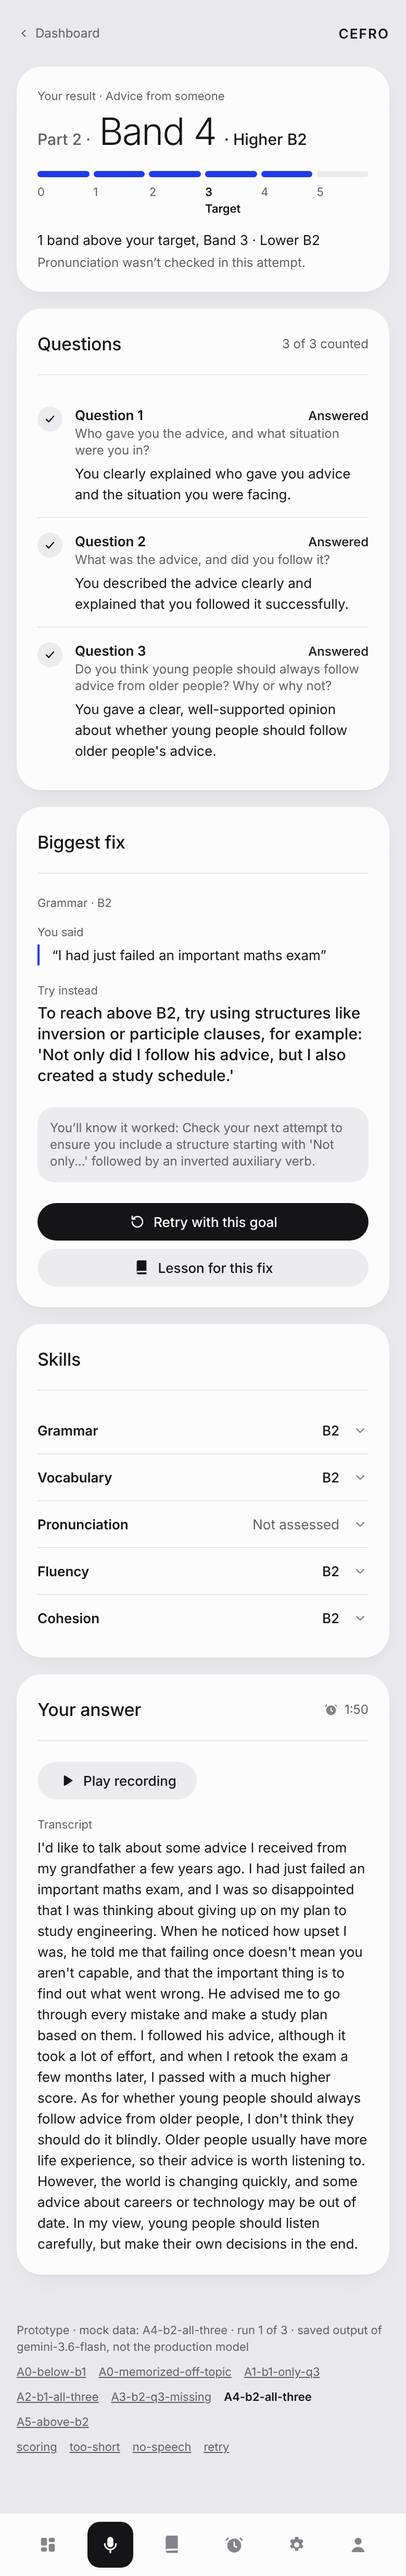
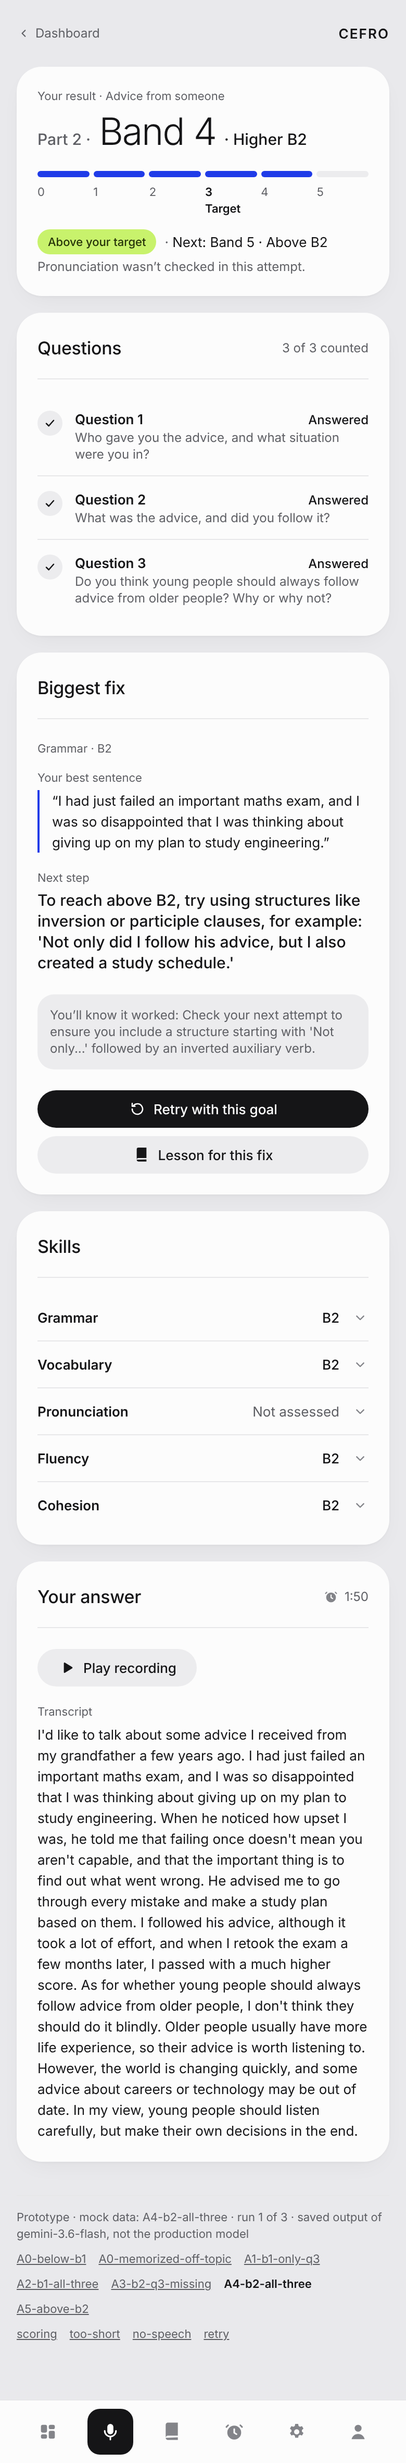
fix(result): quote labels from the evaluator's data, quieter answered questions, above-target line
- Skill quotes are labelled "What you did well" / "To improve" only when the
  evaluator's strengths / errors list names those words for that skill; the
  first evidence quote keeps its place when listed, else the listed strength,
  else the listed error; otherwise the quote shows without a label
- Biggest fix: an error keeps "You said / Try instead"; otherwise the skill's
  listed strength is "Your best sentence" with "Next step" (with no listed
  strength, their words stay "You said", never called "best")
- Answered questions show only "Answered" with the tick; the note shows for
  partly answered and not counted
- Above the target: lime "Above your target" · "Next: Band 5 · Above B2"
- Screenshots re-taken

Claude-Session: https://claude.ai/code/session_012h7y6fFKFMNGT6TLEtPh6o

Changed region(s): [[0.0308, 0.0311, 0.9231, 0.9642], [0.8, 0.5288, 0.8923, 0.6532]]

diff --git a/src/features/result/view-model.ts b/src/features/result/view-model.ts
@@ -97,7 +97,11 @@ export interface BiggestFixView {
   label: string;
   /** What the quote is: the student's words, or (when nothing was said) the question they missed. */
   quoteKind: "student" | "question";
+  /** "You said" (an error, or their words for a question), "Your best sentence" (a listed strength), "You didn't answer". */
+  quoteLabel: string;
   quote: string;
+  /** "Try instead" after an error or a missed question; "Next step" when the quote is not an error. */
+  adviceLabel: "Try instead" | "Next step";
   tryInstead: string;
   /** The retry goal (the evaluator's first retry focus). Omitted when it would repeat `tryInstead`. */
   goal: string | null;
@@ -112,6 +116,8 @@ export interface SkillRow {
   level: FeatureLevel | null;
   levelLabel: string;
   quote: string | null;
+  /** From the evaluator's lists: a strength ("What you did well") or an error ("To improve"); null when they don't say. */
+  quoteLabel: SkillQuoteLabel | null;
   note: string;
   /** Retries: the level last time, when it differs. */
   previousLevelLabel: string | null;
@@ -133,7 +139,8 @@ export interface ResultView {
   bandLabel: string;
   /** "Part 2 · Band 2 · Higher B1" */
   headline: string;
-  target: { band: number; label: string; distance: number; text: string };
+  /** `text` for below / at the target; above it, `above` instead (the lime label, and the next band if there is one). */
+  target: { band: number; label: string; distance: number; text: string; above: { next: string | null } | null };
   /** True when pronunciation was not assessed: the band may change once it is. */
   provisional: boolean;
   zeroReason: MultilevelResult["scoring"]["zero_reason"];
@@ -177,7 +184,13 @@ export function buildResultView(
     bandMax: s.band_max,
     bandLabel: s.label,
     headline: `Part ${result.part} · Band ${s.band} · ${s.label}`,
-    target: { band: s.target_band, label: targetLabel, distance, text: distanceText(distance, s.target_band, targetLabel) },
+    target: {
+      band: s.target_band,
+      label: targetLabel,
+      distance,
+      text: distanceText(distance, s.target_band, targetLabel),
+      above: distance < 0 ? { next: nextBand(s.band, s.band_max, ctx.bandLabels) } : null,
+    },
     provisional: s.provisional,
     zeroReason: s.zero_reason,
     questions: result.assessment.questions.map((q) => ({
@@ -201,7 +214,40 @@ function distanceText(distance: number, targetBand: number, targetLabel: string)
   const bands = (n: number) => `${n} ${n === 1 ? "band" : "bands"}`;
   if (distance > 0) return `${bands(distance)} to your target, ${target}`;
   if (distance === 0) return `Target reached: ${target}`;
-  return `${bands(-distance)} above your target, ${target}`;
+  return "Above your target";
+}
+
+function nextBand(band: number, bandMax: number, labels: readonly BandLabel[]): string | null {
+  if (band >= bandMax) return null;
+  const label = labels.find((b) => b.band === band + 1)?.label;
+  return `Band ${band + 1}${label ? ` · ${label}` : ""}`;
+}
+
+export type SkillQuoteLabel = "What you did well" | "To improve";
+
+const norm = (text: string) => text.toLowerCase().replace(/\s+/g, " ").trim();
+/** Both are exact substrings of the transcript, so one containing the other means they quote the same words. */
+const sameWords = (a: string, b: string) => norm(a).includes(norm(b)) || norm(b).includes(norm(a));
+
+/**
+ * A skill's quote and what it shows, only from the evaluator's own lists: `strengths` (B2-or-better language) and
+ * `errors` (grammar / vocabulary). The first evidence quote keeps its place when a list names it; otherwise the
+ * skill's listed strength, else its listed error. When no list says, the first quote is shown without a label.
+ */
+function skillQuote(result: MultilevelResult, feature: Feature): { quote: string | null; label: SkillQuoteLabel | null } {
+  const a = result.assessment;
+  const strengths = a.strengths.filter((s) => s.feature === feature);
+  const errors = a.errors.filter((e) => e.type === feature);
+  const first = a.features[feature].evidence[0];
+  if (first) {
+    const good = strengths.some((s) => sameWords(s.quote, first));
+    const bad = errors.some((e) => sameWords(e.quote, first));
+    if (good !== bad) return { quote: first, label: good ? "What you did well" : "To improve" };
+    if (good && bad) return { quote: first, label: null };
+  }
+  if (strengths[0]) return { quote: strengths[0].quote, label: "What you did well" };
+  if (errors[0]) return { quote: errors[0].quote, label: "To improve" };
+  return { quote: first ?? null, label: null };
 }
 
 function skillRow(result: MultilevelResult, feature: Feature, prev: MultilevelResult | null): SkillRow {
@@ -213,7 +259,10 @@ function skillRow(result: MultilevelResult, feature: Feature, prev: MultilevelRe
     name: FEATURE_LABELS[feature],
     level,
     levelLabel: level ? LEVEL_LABELS[level] : "Not assessed",
-    quote: f.evidence[0] ?? null,
+    ...(() => {
+      const { quote, label } = skillQuote(result, feature);
+      return { quote, quoteLabel: label };
+    })(),
     note: f.note,
     previousLevelLabel: prevLevel && level && prevLevel !== level ? LEVEL_LABELS[prevLevel] : null,
   };
@@ -248,9 +297,25 @@ function biggestFix(result: MultilevelResult, prompts: readonly string[], transc
     const error = a.errors.find((e) => e.type === fix.feature);
     if (error) {
       const pattern = error.pattern && a.error_patterns.find((p) => p.name === error.pattern);
-      return withGoal({ label: pattern ? `${label} · ${pattern.name}` : label, quoteKind: "student", quote: error.quote, tryInstead: error.correction });
+      return withGoal({
+        label: pattern ? `${label} · ${pattern.name}` : label,
+        quoteKind: "student",
+        quoteLabel: "You said",
+        quote: error.quote,
+        adviceLabel: "Try instead",
+        tryInstead: error.correction,
+      });
     }
-    return withGoal({ label, quoteKind: "student", quote: f.evidence[0] ?? firstSentence(transcript), tryInstead: f.how_to_improve || (focus?.objective ?? "") });
+    // Not an error: their listed strength for this skill is "Your best sentence"; without one, their own words, unlabelled as best.
+    const strength = a.strengths.find((x) => x.feature === fix.feature);
+    return withGoal({
+      label,
+      quoteKind: "student",
+      quoteLabel: strength ? "Your best sentence" : "You said",
+      quote: strength?.quote ?? f.evidence[0] ?? firstSentence(transcript),
+      adviceLabel: "Next step",
+      tryInstead: f.how_to_improve || (focus?.objective ?? ""),
+    });
   }
 
   if (fix.kind === "question_coverage") {
@@ -261,7 +326,9 @@ function biggestFix(result: MultilevelResult, prompts: readonly string[], transc
     return withGoal({
       label,
       quoteKind: said ? "student" : "question",
+      quoteLabel: said ? "You said" : "You didn't answer",
       quote: said || prompt,
+      adviceLabel: "Try instead",
       tryInstead: q?.model_answer || `Answer it directly, then give a reason or an example.`,
     });
   }
@@ -270,7 +337,9 @@ function biggestFix(result: MultilevelResult, prompts: readonly string[], transc
   return withGoal({
     label: "Own words · Answer the questions",
     quoteKind: "student",
+    quoteLabel: "You said",
     quote: firstSentence(transcript),
+    adviceLabel: "Try instead",
     tryInstead: example || "Start by answering question 1 directly, in your own words.",
   });
 }

diff --git a/src/features/result/view-model.test.ts b/src/features/result/view-model.test.ts
@@ -82,7 +82,7 @@ describe("result page view model (saved live fixtures, no provider)", () => {
     const view = scored({ anchor: "A4-b2-all-three" });
     expect(view.skills.find((s) => s.feature === "pronunciation")).toMatchObject({ level: null, levelLabel: "Not assessed" });
     expect(view.provisional).toBe(true);
-    expect(view.target.text).toBe("1 band above your target, Band 3 · Lower B2");
+    expect(view.target.above).toEqual({ next: "Band 5 · Above B2" });
     expect(view.pronunciationNote).toBe("Pronunciation wasn't checked in this attempt.");
     const html = render(stateFor({ anchor: "A4-b2-all-three" }));
     expect(html).toContain("Pronunciation wasn&#x27;t checked in this attempt.");
@@ -106,6 +106,55 @@ describe("result page view model (saved live fixtures, no provider)", () => {
     expect(source.evaluation && "quality" in source.evaluation).toBe(false);
     const html = render(resultPageState(source));
     expect(html).not.toMatch(/quality|warning/i);
+  });
+});
+
+describe("quote labels come only from the evaluator's lists", () => {
+  it("biggest fix: an error keeps 'You said / Try instead'; a listed strength is 'Your best sentence / Next step'", () => {
+    expect(scored({ anchor: "A2-b1-all-three", run: "1" }).fix).toMatchObject({ quoteLabel: "You said", adviceLabel: "Try instead" });
+    const a4 = scored({ anchor: "A4-b2-all-three", run: "1" }).fix;
+    expect(a4).toMatchObject({ quoteLabel: "Your best sentence", adviceLabel: "Next step" });
+    expect(a4.quote).toBe(LIVE_36_FLASH_FIXTURES["A4-b2-all-three"].runs[0].evaluation.result.assessment.strengths.find((x) => x.feature === "grammar")!.quote);
+  });
+
+  it("biggest fix: not an error and no listed strength → their words as 'You said', never 'best'", () => {
+    // A2 run 3: grammar is the fix but its errors are typed vocabulary and it has no strengths.
+    expect(scored({ anchor: "A2-b1-all-three", run: "3" }).fix).toMatchObject({ quoteLabel: "You said", adviceLabel: "Next step" });
+  });
+
+  it("skills: every label matches a listed strength or error of that skill; unlisted quotes stay unlabelled", () => {
+    let labelled = 0;
+    for (const anchor of FIXTURE_ANCHORS) {
+      LIVE_36_FLASH_FIXTURES[anchor].runs.forEach((run, i) => {
+        const a = run.evaluation.result.assessment;
+        for (const skill of scored({ anchor, run: String(i + 1) }).skills) {
+          if (!skill.quoteLabel) continue;
+          labelled++;
+          const list = skill.quoteLabel === "What you did well" ? a.strengths.filter((x) => x.feature === skill.feature) : a.errors.filter((e) => e.type === skill.feature);
+          const q = skill.quote!.toLowerCase();
+          expect(list.some((x) => q.includes(x.quote.toLowerCase()) || x.quote.toLowerCase().includes(q)), `${anchor} ${i + 1} ${skill.feature}`).toBe(true);
+        }
+      });
+    }
+    expect(labelled).toBeGreaterThan(0);
+    // A2 run 1 fluency has neither a strength nor an error listed: no label.
+    expect(scored({ anchor: "A2-b1-all-three", run: "1" }).skills.find((x) => x.feature === "fluency")!.quoteLabel).toBeNull();
+    expect(scored({ anchor: "A2-b1-all-three", run: "1" }).skills.find((x) => x.feature === "vocabulary")).toMatchObject({ quoteLabel: "To improve", quote: "my speaking became better" });
+  });
+
+  it("answered questions show no note; partly / not counted do", () => {
+    const html = render(stateFor({ anchor: "A3-b2-q3-missing", run: "1" }));
+    const notes = LIVE_36_FLASH_FIXTURES["A3-b2-q3-missing"].runs[0].evaluation.result.assessment.questions;
+    expect(html).not.toContain(notes[0].note.replace(/'/g, "&#x27;"));
+    expect(html).toContain(notes[2].note.replace(/'/g, "&#x27;"));
+  });
+
+  it("above the target: lime 'Above your target' and the next band, no 'band above'", () => {
+    const html = render(stateFor({ anchor: "A4-b2-all-three" }));
+    expect(html).toContain("Above your target");
+    expect(html).toContain("Next: Band 5 · Above B2");
+    expect(html).not.toMatch(/band above/);
+    expect(scored({ anchor: "A5-above-b2" }).target.above).toEqual({ next: null });
   });
 });
 

diff --git a/src/features/result/sections.tsx b/src/features/result/sections.tsx
@@ -71,7 +71,18 @@ function ResultCard({ view, className }: { view: ResultView; className?: string 
       </h1>
 
       <BandMeter band={view.band} bandMax={view.bandMax} target={view.target.band} className="mt-5" />
-      <p className="mt-3 text-body text-fg">{view.target.text}</p>
+      {view.target.above ? (
+        <p className="mt-3 flex flex-wrap items-center gap-x-2 gap-y-1 text-body text-fg">
+          <DeltaLabel>Above your target</DeltaLabel>
+          {view.target.above.next && (
+            <span>
+              <span aria-hidden="true" className="text-fg-muted">· </span>Next: {view.target.above.next}
+            </span>
+          )}
+        </p>
+      ) : (
+        <p className="mt-3 text-body text-fg">{view.target.text}</p>
+      )}
       {view.zeroReason && ZERO_TEXT[view.zeroReason] && <p className="mt-1 text-label text-fg-muted">{ZERO_TEXT[view.zeroReason]}</p>}
       {view.provisional && <p className="mt-1 text-label text-fg-muted">Pronunciation wasn&rsquo;t checked in this attempt.</p>}
       {retry?.goalText && (
@@ -125,7 +136,7 @@ function QuestionsCard({ view, className }: { view: ResultView; className?: stri
                 <span className="shrink-0 text-label font-medium text-fg">{q.verdictLabel}</span>
               </p>
               <p className="text-label text-fg-muted">{q.prompt}</p>
-              <p className="mt-1 text-body text-fg">{q.reason}</p>
+              {q.verdict !== "answered" && q.reason && <p className="mt-1 text-body text-fg">{q.reason}</p>}
             </div>
           </li>
         ))}
@@ -140,13 +151,13 @@ function BiggestFixCard({ view, task, flags, className }: { view: ResultView; ta
     <Card aria-labelledby="fix-title" className={className}>
       <CardHeader id="fix-title" title="Biggest fix" />
       <p className="text-caption text-fg-muted">{fix.label}</p>
-      <p className="mt-3 text-caption text-fg-muted">{fix.quoteKind === "student" ? "You said" : "You didn't answer"}</p>
+      <p className="mt-3 text-caption text-fg-muted">{fix.quoteLabel}</p>
       {fix.quoteKind === "student" ? (
         <blockquote className="mt-1 border-l-2 border-accent pl-3 text-body text-fg">“{fix.quote}”</blockquote>
       ) : (
         <p className="mt-1 text-body text-fg">{fix.quote}</p>
       )}
-      <p className="mt-4 text-caption text-fg-muted">Try instead</p>
+      <p className="mt-4 text-caption text-fg-muted">{fix.adviceLabel}</p>
       <p className="mt-1 text-lead font-medium text-fg">{fix.tryInstead}</p>
       {(fix.goal || fix.check) && (
         <div className="mt-5 rounded-tile bg-well p-3">
@@ -208,7 +219,12 @@ function SkillsCard({ view, className }: { view: ResultView; className?: string 
                   <p className="text-body text-fg-muted">{view.pronunciationNote ?? "Pronunciation wasn't checked in this attempt."}</p>
                 ) : (
                   <>
-                    {s.quote && <blockquote className="border-l-2 border-accent pl-3 text-body text-fg">“{s.quote}”</blockquote>}
+                    {s.quote && (
+                      <>
+                        {s.quoteLabel && <p className="mb-1 text-caption font-semibold text-fg">{s.quoteLabel}</p>}
+                        <blockquote className="border-l-2 border-accent pl-3 text-body text-fg">“{s.quote}”</blockquote>
+                      </>
+                    )}
                     {s.note && <p className={cx("text-body text-fg-muted", s.quote && "mt-2")}>{s.note}</p>}
                   </>
                 )}
